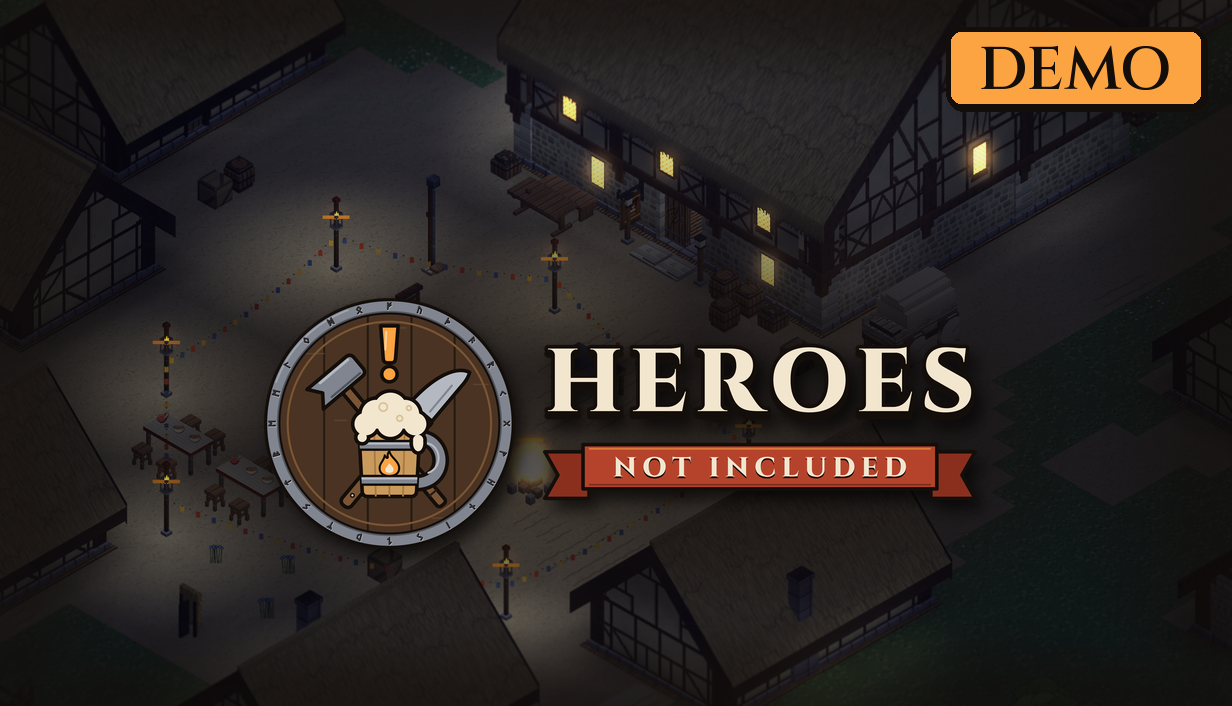
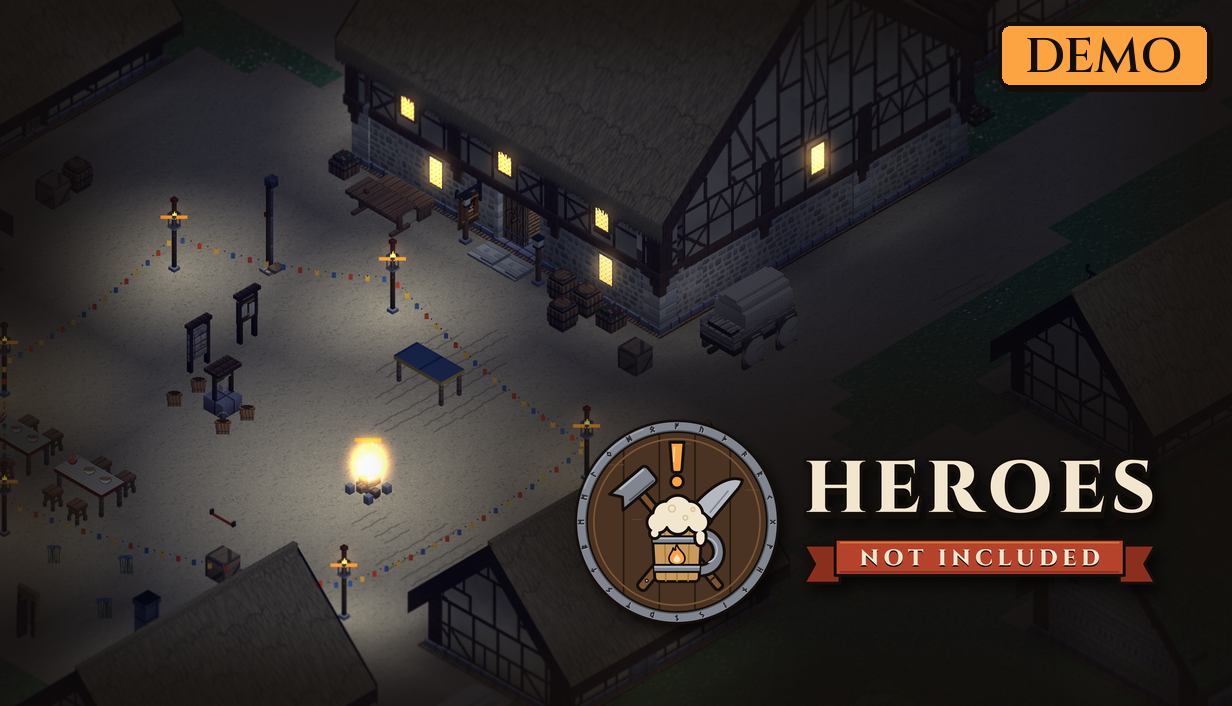
Capsule art, part 2: every Steam size from the festival square, the forge as alternate
tools/capsules.py now makes the whole set every run: header, small, main, vertical, library, library
hero and page background, and the demo's versions of those with the logo. A key art may have its own
layout (LAYOUTS: crop focus, zoom, logo position and size per image); the square's keeps the logo off
the bonfire and the inn's lit front. The page background is softened and sunk into the oak, the demo
tab is sized against the header's proportions so tall capsules don't get a giant one, and the contact
sheet shows the library hero at half size under the library logo, as Steam shows them.

The square's key art is retaken at 3840x1440, so the library hero isn't stretched.

diff --git a/tools/capsules.py b/tools/capsules.py
@@ -21,8 +21,9 @@ in camera mode during a real round, which catches a lived-in town):
 Each key art is PATH or PATH@X,Y, the point (fractions of its width and height) the crops keep in frame.
 Its name is the file's stem without "keyart-" (or --name, for one). Writes art/steam/<name>/: header.png,
 small.png, main.png and library-logo.png (with --demo, *-demo.png beside them, marked in ember), and
-art/steam/contact.png. --all adds the rest of Steam's set (vertical, library, hero, page background),
-laid out but not yet tuned: that's part 2, once a key art is picked.
+art/steam/contact.png (not kept in git). The rest of Steam's set comes with it: vertical.png, library.png,
+library-hero.png and page-background.png. A key art's own layout (LAYOUTS, by its name) moves the logo and
+the crop per size, to keep the logo off what the shot is of.
 
 Needs Pillow, and rsvg-convert (or Edge/Chrome) for the logo, as tools/brand_logo.py does.
 """
@@ -31,7 +32,7 @@ from __future__ import annotations
 import argparse
 import sys
 import tempfile
-from dataclasses import dataclass
+from dataclasses import dataclass, replace
 from pathlib import Path
 
 from PIL import Image, ImageDraw, ImageFilter, ImageFont
@@ -52,7 +53,9 @@ def rgb(name: str) -> tuple[int, int, int]:
 @dataclass(frozen=True)
 class Size:
     """One of Steam's images. `logo` is "horizontal", "stacked" or None (Steam wants no text on the library
-    hero or the page background); the logo is centred at (ax, ay), fractions of the image, `share` of its height."""
+    hero or the page background); the logo is centred at (ax, ay), fractions of the image, `share` of its height.
+    The crop keeps (fx, fy) of the key art in frame (None: the key art's own focus), `zoom` times tighter than
+    the least that covers. `dim` softens and darkens it, for the page background Steam lays its page over."""
     name: str
     w: int
     h: int
@@ -60,7 +63,10 @@ class Size:
     ax: float = 0.5
     ay: float = 0.5
     share: float = 0.6
-    tuned: bool = True
+    fx: float | None = None
+    fy: float | None = None
+    zoom: float = 1.0
+    dim: bool = False
 
 
 # Steam's sizes (STEAM-PAGE.md, "Capsules and media"; check Steamworks' current list when uploading).
@@ -68,12 +74,24 @@ SIZES = (
     Size("header", 920, 430, "horizontal", 0.5, 0.54, 0.62),
     Size("small", 462, 174, "horizontal", 0.5, 0.5, 0.9),      # the logo nearly fills it: nothing else reads here
     Size("main", 1232, 706, "horizontal", 0.5, 0.6, 0.44),
-    # Part 2: laid out, not yet tuned.
-    Size("vertical", 748, 896, "stacked", 0.5, 0.4, 0.56, tuned=False),
-    Size("library", 600, 900, "stacked", 0.5, 0.36, 0.5, tuned=False),
-    Size("library-hero", 3840, 1240, None, tuned=False),
-    Size("page-background", 1438, 810, None, tuned=False),
+    Size("vertical", 748, 896, "stacked", 0.5, 0.4, 0.56),
+    Size("library", 600, 900, "stacked", 0.5, 0.36, 0.5),
+    Size("library-hero", 3840, 1240, None),       # Steam lays the library logo over it: no text of our own
+    Size("page-background", 1438, 810, None, dim=True),
 )
+
+# A key art's own layout, by set name: what each size changes so the logo keeps off what the shot is of.
+LAYOUTS: dict[str, dict[str, dict]] = {
+    # The festival square at 20:00 (3840x1440): the bonfire at (0.45, 0.66), the inn's lit front across the top
+    # from 0.43 to 0.77. The crops shift right to put the bonfire on the left; the logo sits on the cottages'
+    # roofs bottom right.
+    "square": {
+        "header": dict(fx=0.6, ax=0.7, ay=0.72, share=0.46),
+        "main": dict(fx=0.58, ax=0.7, ay=0.74, share=0.36),
+        "vertical": dict(fx=0.55, ax=0.6, ay=0.78, share=0.42),
+        "library": dict(fx=0.53, ax=0.6, ay=0.8, share=0.4),
+    },
+}
 LIBRARY_LOGO_W = 1280  # transparent, 1280 wide (or 720 tall)
 
 
@@ -82,9 +100,9 @@ def smooth(t: float) -> float:
     return t * t * (3 - 2 * t)
 
 
-def cover(img: Image.Image, w: int, h: int, fx: float, fy: float) -> Image.Image:
-    """Scale to cover w x h, then crop around the focus point, kept as near the middle as the edges allow."""
-    s = max(w / img.width, h / img.height)
+def cover(img: Image.Image, w: int, h: int, fx: float, fy: float, zoom: float = 1.0) -> Image.Image:
+    """Scale to cover w x h (`zoom` times more), then crop around the focus point, as near it as the edges allow."""
+    s = max(w / img.width, h / img.height) * zoom
     sw, sh = round(img.width * s), round(img.height * s)
     big = img.resize((sw, sh), Image.LANCZOS)
     x = min(max(round(fx * sw - w / 2), 0), sw - w)
@@ -111,7 +129,14 @@ def fit(logo: Image.Image, h: int) -> Image.Image:
 
 
 def compose(art: Image.Image, focus: tuple[float, float], size: Size, lockups: dict[str, Image.Image]) -> Image.Image:
-    img = cover(art, size.w, size.h, *focus)
+    img = cover(art, size.w, size.h, focus[0] if size.fx is None else size.fx, focus[1] if size.fy is None else size.fy, size.zoom)
+    if size.dim:
+        # Softened and sunk into the oak, so the page reads over it; the edges fade to the cellar.
+        img = img.filter(ImageFilter.GaussianBlur(2.5))
+        img.paste(rgb("oak_deep"), (0, 0), Image.new("L", img.size, 110))
+        vig = Image.new("L", (64, 64))
+        vig.putdata([int(220 * smooth((max(abs(x / 63 - 0.5), abs(y / 63 - 0.5)) - 0.3) / 0.2)) for y in range(64) for x in range(64)])
+        img.paste(rgb("cellar"), (0, 0), vig.resize(img.size, Image.BICUBIC))
     if size.logo is None:
         return img
     logo = fit(lockups[size.logo], round(size.h * size.share))
@@ -142,7 +167,8 @@ def compose(art: Image.Image, focus: tuple[float, float], size: Size, lockups: d
 def demo_mark(img: Image.Image) -> Image.Image:
     """A "DEMO" tab in ember, cellar lettering, top right: the demo's set is the game's with this on it."""
     img = img.copy()
-    fs = max(14, round(img.height * 0.085))
+    # Sized as on the header (920x430): a tall capsule's tab is no bigger than a wide one's.
+    fs = max(14, round(min(img.height, img.width * 430 / 920) * 0.085))
     font = ImageFont.truetype(str(FONT), fs)
     d = ImageDraw.Draw(img)
     l, t, r, b = d.textbbox((0, 0), "DEMO", font=font)
@@ -156,23 +182,37 @@ def demo_mark(img: Image.Image) -> Image.Image:
     return img
 
 
-def contact_sheet(rows: list[tuple[str, dict[str, Image.Image]]], path: Path) -> None:
-    """One row per key art: header, small and main at 100%, then the small at a store list's half size, and that
-    blown up 3x (pixels kept) to judge whether the title survives it."""
+def sheet_rows(name: str, imgs: dict[str, Image.Image], library_logo: Image.Image) -> list[tuple[str, list[tuple[str, Image.Image]]]]:
+    """A set's two rows on the contact sheet. The store's: header, small and main at 100%, then the small at a store
+    list's half size, and that blown up 3x (pixels kept) to judge whether the title survives it. The library's and
+    the page's: vertical, library, the page background, and the hero at half size with the library logo over it,
+    as the Steam library shows them together."""
+    rows = []
+    if "small" in imgs:
+        half = imgs["small"].resize((imgs["small"].width // 2, imgs["small"].height // 2), Image.LANCZOS)
+        rows.append((name, [("header", imgs["header"]), ("small", imgs["small"]), ("main", imgs["main"]),
+                            ("small at half", half), ("half, 3x", half.resize((half.width * 3, half.height * 3), Image.NEAREST))]))
+    rest = [(k, imgs[k]) for k in ("vertical", "library", "page-background") if k in imgs]
+    if "library-hero" in imgs:
+        hero = imgs["library-hero"].resize((1920, 620), Image.LANCZOS)
+        logo = fit(library_logo, round(hero.height * 0.42))
+        hero.paste(logo, (round(hero.width * 0.04), hero.height - logo.height - round(hero.height * 0.08)), logo)
+        rest.append(("library-hero at half, with the library logo", hero))
+    if rest:
+        rows.append((f"{name}: library and page", rest))
+    return rows
+
+
+def contact_sheet(rows: list[tuple[str, list[tuple[str, Image.Image]]]], path: Path) -> None:
     gap, label_h = 24, 44
     font = ImageFont.truetype(str(FONT), 26)
     small_font = ImageFont.truetype(str(FONT), 22)
-    cells = []
-    for name, imgs in rows:
-        half = imgs["small"].resize((imgs["small"].width // 2, imgs["small"].height // 2), Image.LANCZOS)
-        cells.append((name, [("header", imgs["header"]), ("small", imgs["small"]), ("main", imgs["main"]),
-                             ("small at half", half), ("half, 3x", half.resize((half.width * 3, half.height * 3), Image.NEAREST))]))
-    width = gap + max(sum(i.width + gap for _, i in c) for _, c in cells)
-    row_h = [label_h + max(i.height for _, i in c) + 30 + gap for _, c in cells]
+    width = gap + max(sum(i.width + gap for _, i in c) for _, c in rows)
+    row_h = [label_h + max(i.height for _, i in c) + 30 + gap for _, c in rows]
     sheet = Image.new("RGB", (width, gap + sum(row_h)), rgb("oak_deep"))
     d = ImageDraw.Draw(sheet)
     y = gap
-    for (name, c), rh in zip(cells, row_h):
+    for (name, c), rh in zip(rows, row_h):
         d.text((gap, y), name, font=font, fill=rgb("bone"))
         x = gap
         for label, im in c:
@@ -196,14 +236,13 @@ def main() -> None:
     ap.add_argument("art", nargs="+", help="key art: PATH or PATH@X,Y (the focus, as fractions)")
     ap.add_argument("--name", help="the set's name, for a single key art (default: the file's stem)")
     ap.add_argument("--demo", action="store_true", help="also the demo's set, marked in ember")
-    ap.add_argument("--all", action="store_true", help="also part 2's sizes (vertical, library, hero, background)")
     ap.add_argument("--out", type=Path, default=ROOT / "art" / "steam")
     a = ap.parse_args()
     if a.name and len(a.art) > 1:
         ap.error("--name is for a single key art")
 
     lockups = logos(1600)
-    sizes = [s for s in SIZES if s.tuned or a.all]
+    lib = fit(lockups["horizontal"], round(LIBRARY_LOGO_W * 520 / 1280))
     rows = []
     for spec in a.art:
         path, focus = parse_art(spec)
@@ -214,19 +253,20 @@ def main() -> None:
         out = a.out / name
         out.mkdir(parents=True, exist_ok=True)
         made = {}
-        for size in sizes:
+        for size in SIZES:
+            size = replace(size, **LAYOUTS.get(name, {}).get(size.name, {}))
             img = compose(art, focus, size, lockups)
             assert img.size == (size.w, size.h), (size.name, img.size)
             img.save(out / f"{size.name}.png", optimize=True)
             made[size.name] = img
             if a.demo and size.logo:
                 demo_mark(img).save(out / f"{size.name}-demo.png", optimize=True)
-        rows.append((name, made))
+        rows += sheet_rows(name, made, lib)
         if a.demo:
-            rows.append((f"{name} (demo)", {k: demo_mark(v) for k, v in made.items() if k in ("header", "small", "main")}))
+            marked = {s.name: demo_mark(made[s.name]) for s in SIZES if s.logo}
+            rows += sheet_rows(f"{name} (demo)", marked, lib)
         print("wrote", out)
 
-    lib = fit(lockups["horizontal"], round(LIBRARY_LOGO_W * 520 / 1280))
     a.out.mkdir(parents=True, exist_ok=True)
     lib.save(a.out / "library-logo.png", optimize=True)
     contact_sheet(rows, a.out / "contact.png")

diff --git a/docs/NEXT-FEST.md b/docs/NEXT-FEST.md
@@ -56,11 +56,13 @@ submitted by 1 Feb. Everything else can slip a little.
 - [ ] Set up the game's app, and a **demo app** beside it (demos are an app of their own, with
       their own page and depots).
 - [x] The Steam integration, tried with the test app (below, "Steamworks").
-- [ ] Capsule art, part 1 (below).
+- [x] Capsule art, part 1 (below).
 - [x] The demo marked at runtime (`BuildInfo.IsDemo`), and the `mods/demo` content gate (below). *20 Nov.*
 
 ### Week of 30 Nov: the page's pieces
-- [ ] The in-house capsule set, in every size Steam requires (STEAM-PAGE.md, "Capsules and media").
+- [x] The in-house capsule set, in every size Steam requires (STEAM-PAGE.md, "Capsules and media").
+      *20 Nov: `art/steam/square/`, the demo's beside it, from one 3840x1440 shot; the logo kept off the
+      bonfire and the inn by the square's layout. The forge's set is the alternate.*
 - [ ] Five or more screenshots: `--screenshot-no-ui` with `--fire-test`, `--dragon-test`,
       `--festival-at`, a full bar, the forge, the woodshop.
 - [ ] The page copy brought up to date (STEAM-PAGE.md).
@@ -254,8 +256,7 @@ capsule's size.
 - [x] **Judge the three together** on the contact sheet, at small size first. Pick one, then tweak
       the framing and do part 2. *20 Nov: two kept in `art/steam/` (key art in `keyart/`). The
       festival square, empty at 20:00 with the inn's windows lit (`--no-people --lit-windows`), and the
-      forge's green. **The square is the main set; the forge is the alternate.** Still to do: move
-      the logo off the square's bonfire.*
+      forge's green. **The square is the main set; the forge is the alternate.***
 - [ ] Make a new musician video with updated UI and a non license song lol
       to the trailer's footage. Keep the stories that go with them in MARKETING.md.
 

diff --git a/docs/STEAM-PAGE.md b/docs/STEAM-PAGE.md
@@ -148,8 +148,10 @@ Phase 2). Steam's required sizes, in pixels (check Steamworks' current list when
 
 The demo needs its own set: the same art with a "Demo" mark.
 
-`tools/capsules.py KEYART.png --demo` makes the header, small and main capsules (`--all`: the rest, untuned)
-and the library logo into `art/steam/`, with a contact sheet for judging candidates at real size.
+`tools/capsules.py KEYART.png --demo` makes every size above but the screenshots, and the library logo, into
+`art/steam/<name>/`, with a contact sheet for judging candidates at real size. A key art's own layout (its
+`LAYOUTS` entry) keeps the logo off what the shot is of. The set: `art/steam/square/` (the festival square,
+empty at night, the inn's windows lit), and `art/steam/forge/` as the alternate.
 
 - **Main capsule (and the small one):** the emblem and logo on a lit common room at dusk. Readable
   at the small capsule's size (231x87); test it shrunk. No heroes in front: the brand is the
